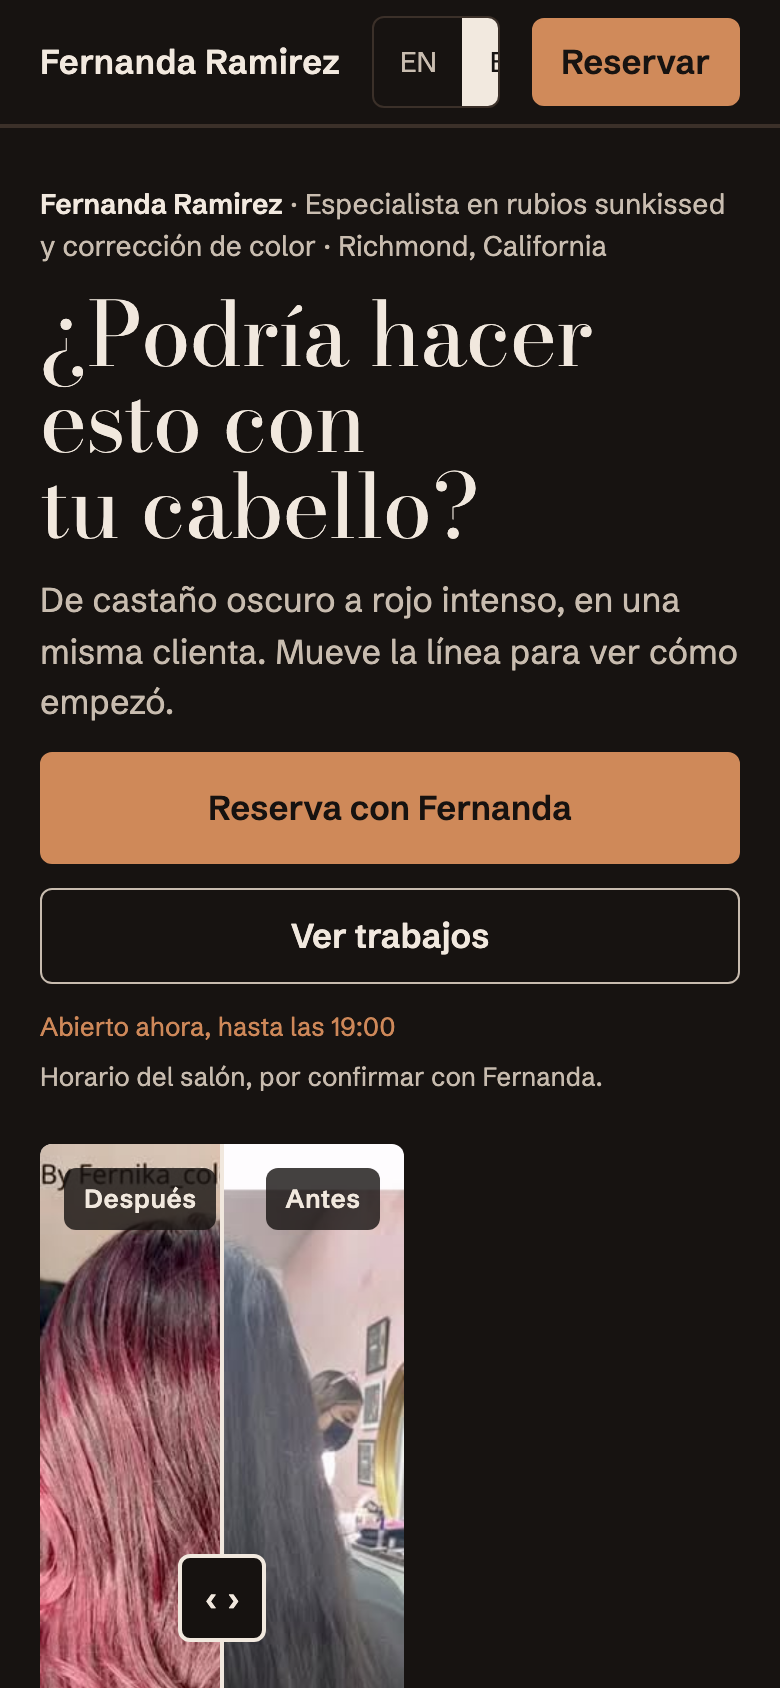
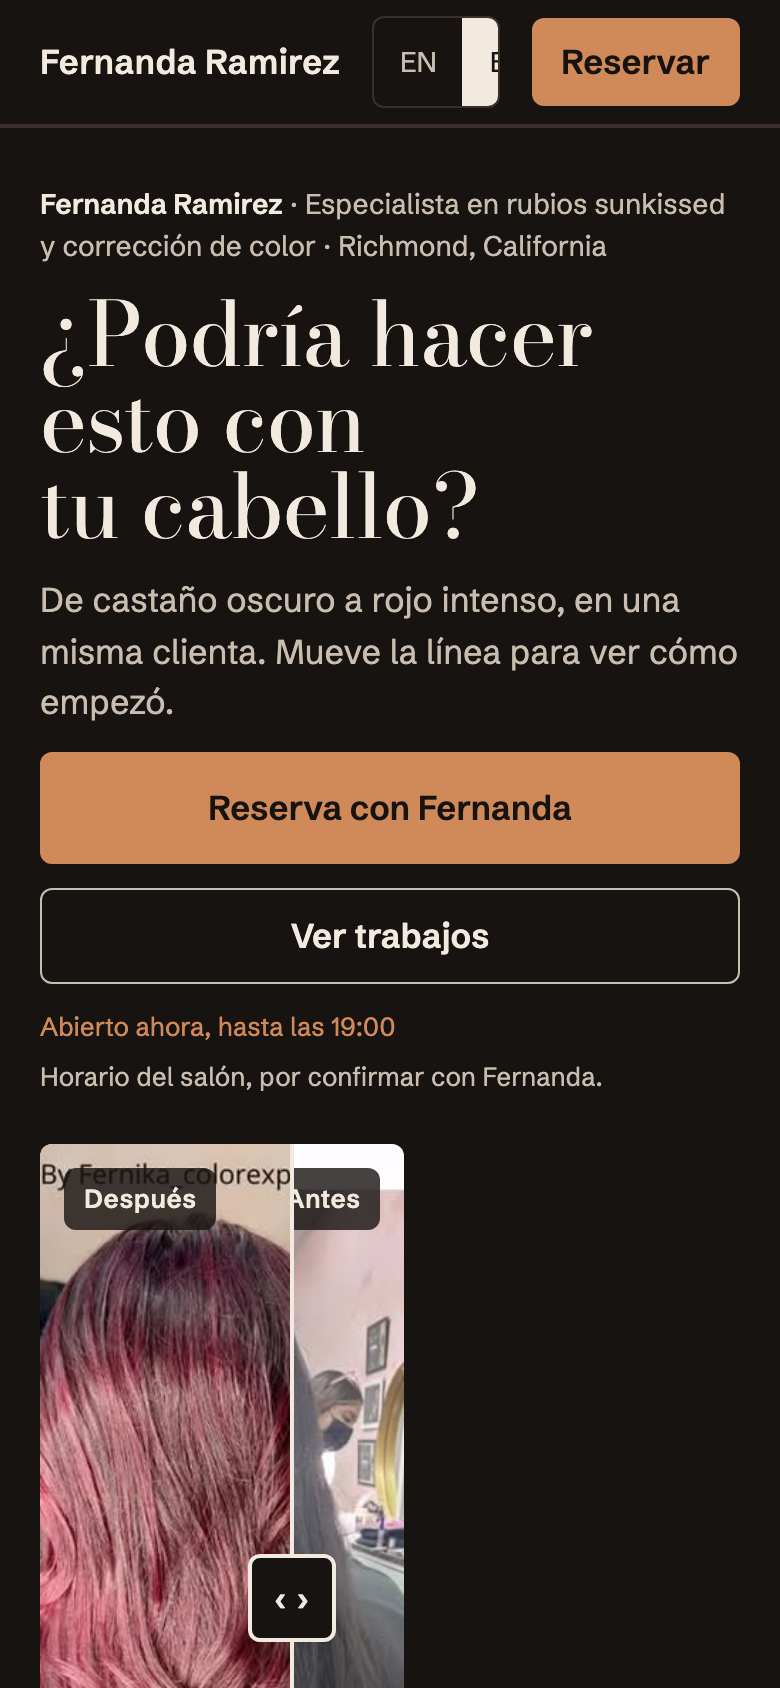
Before-and-after divider sweeps on its own until touched

Changed region(s): [[0.2154, 0.6777, 0.4308, 1.0]]

diff --git a/d3-before-after.html b/d3-before-after.html
@@ -525,6 +525,34 @@ window.__T__ = {
   }
   range.addEventListener('input', function () { setPos(range.value); });
 
+  /* auto-sweep: the divider pans between after and before until she touches it; off under reduced motion */
+  (function () {
+    if (!cmp || !range) return;
+    if (window.matchMedia && window.matchMedia('(prefers-reduced-motion: reduce)').matches) return;
+    var raf = 0, t0 = 0, phase = 0, on = false, stopped = false, period = 9000, amp = 32;
+    function frame(ts) {
+      if (!on || stopped) return;
+      if (!t0) t0 = ts;
+      var p = phase + (ts - t0) / period;
+      var v = 50 + amp * Math.sin(p * 2 * Math.PI);
+      range.value = Math.round(v); setPos(range.value);
+      raf = requestAnimationFrame(frame);
+    }
+    function start() {
+      if (stopped || on) return;
+      on = true; t0 = 0;
+      phase = Math.asin(Math.max(-1, Math.min(1, (+range.value - 50) / amp))) / (2 * Math.PI);
+      raf = requestAnimationFrame(frame);
+    }
+    function pause() { on = false; cancelAnimationFrame(raf); }
+    function stop() { stopped = true; pause(); }
+    ['pointerdown', 'touchstart', 'keydown'].forEach(function (e) { range.addEventListener(e, stop, { passive: true }); });
+    if ('IntersectionObserver' in window) {
+      new IntersectionObserver(function (es) { es.forEach(function (e) { if (e.isIntersecting) start(); else pause(); }); }, { threshold: 0.4 }).observe(cmp);
+    } else start();
+    document.addEventListener('visibilitychange', function () { if (document.hidden) pause(); else start(); });
+  })();
+
   // plates: J/K and arrows
   var plates = Array.prototype.slice.call(document.querySelectorAll('[data-plate]'));
   function current() {

diff --git a/d5-blend.html b/d5-blend.html
@@ -543,6 +543,34 @@ window.__T__ = {
   }
   if (cmp && range) {
     range.addEventListener('input', function () { setPos(range.value); });
+
+  /* auto-sweep: the divider pans between after and before until she touches it; off under reduced motion */
+  (function () {
+    if (!cmp || !range) return;
+    if (window.matchMedia && window.matchMedia('(prefers-reduced-motion: reduce)').matches) return;
+    var raf = 0, t0 = 0, phase = 0, on = false, stopped = false, period = 9000, amp = 32;
+    function frame(ts) {
+      if (!on || stopped) return;
+      if (!t0) t0 = ts;
+      var p = phase + (ts - t0) / period;
+      var v = 50 + amp * Math.sin(p * 2 * Math.PI);
+      range.value = Math.round(v); setPos(range.value);
+      raf = requestAnimationFrame(frame);
+    }
+    function start() {
+      if (stopped || on) return;
+      on = true; t0 = 0;
+      phase = Math.asin(Math.max(-1, Math.min(1, (+range.value - 50) / amp))) / (2 * Math.PI);
+      raf = requestAnimationFrame(frame);
+    }
+    function pause() { on = false; cancelAnimationFrame(raf); }
+    function stop() { stopped = true; pause(); }
+    ['pointerdown', 'touchstart', 'keydown'].forEach(function (e) { range.addEventListener(e, stop, { passive: true }); });
+    if ('IntersectionObserver' in window) {
+      new IntersectionObserver(function (es) { es.forEach(function (e) { if (e.isIntersecting) start(); else pause(); }); }, { threshold: 0.4 }).observe(cmp);
+    } else start();
+    document.addEventListener('visibilitychange', function () { if (document.hidden) pause(); else start(); });
+  })();
     document.addEventListener('fh:lang', function () { setPos(range.value); });
     setPos(range.value);
   }

diff --git a/index-data.js b/index-data.js
@@ -1,5 +1,5 @@
 window.__INDEX__ = {
- "measured": "2026-11-20 14:35",
+ "measured": "2026-11-20 14:52",
  "pages": {
   "d1": {
    "slug": "d1-lookbook",
